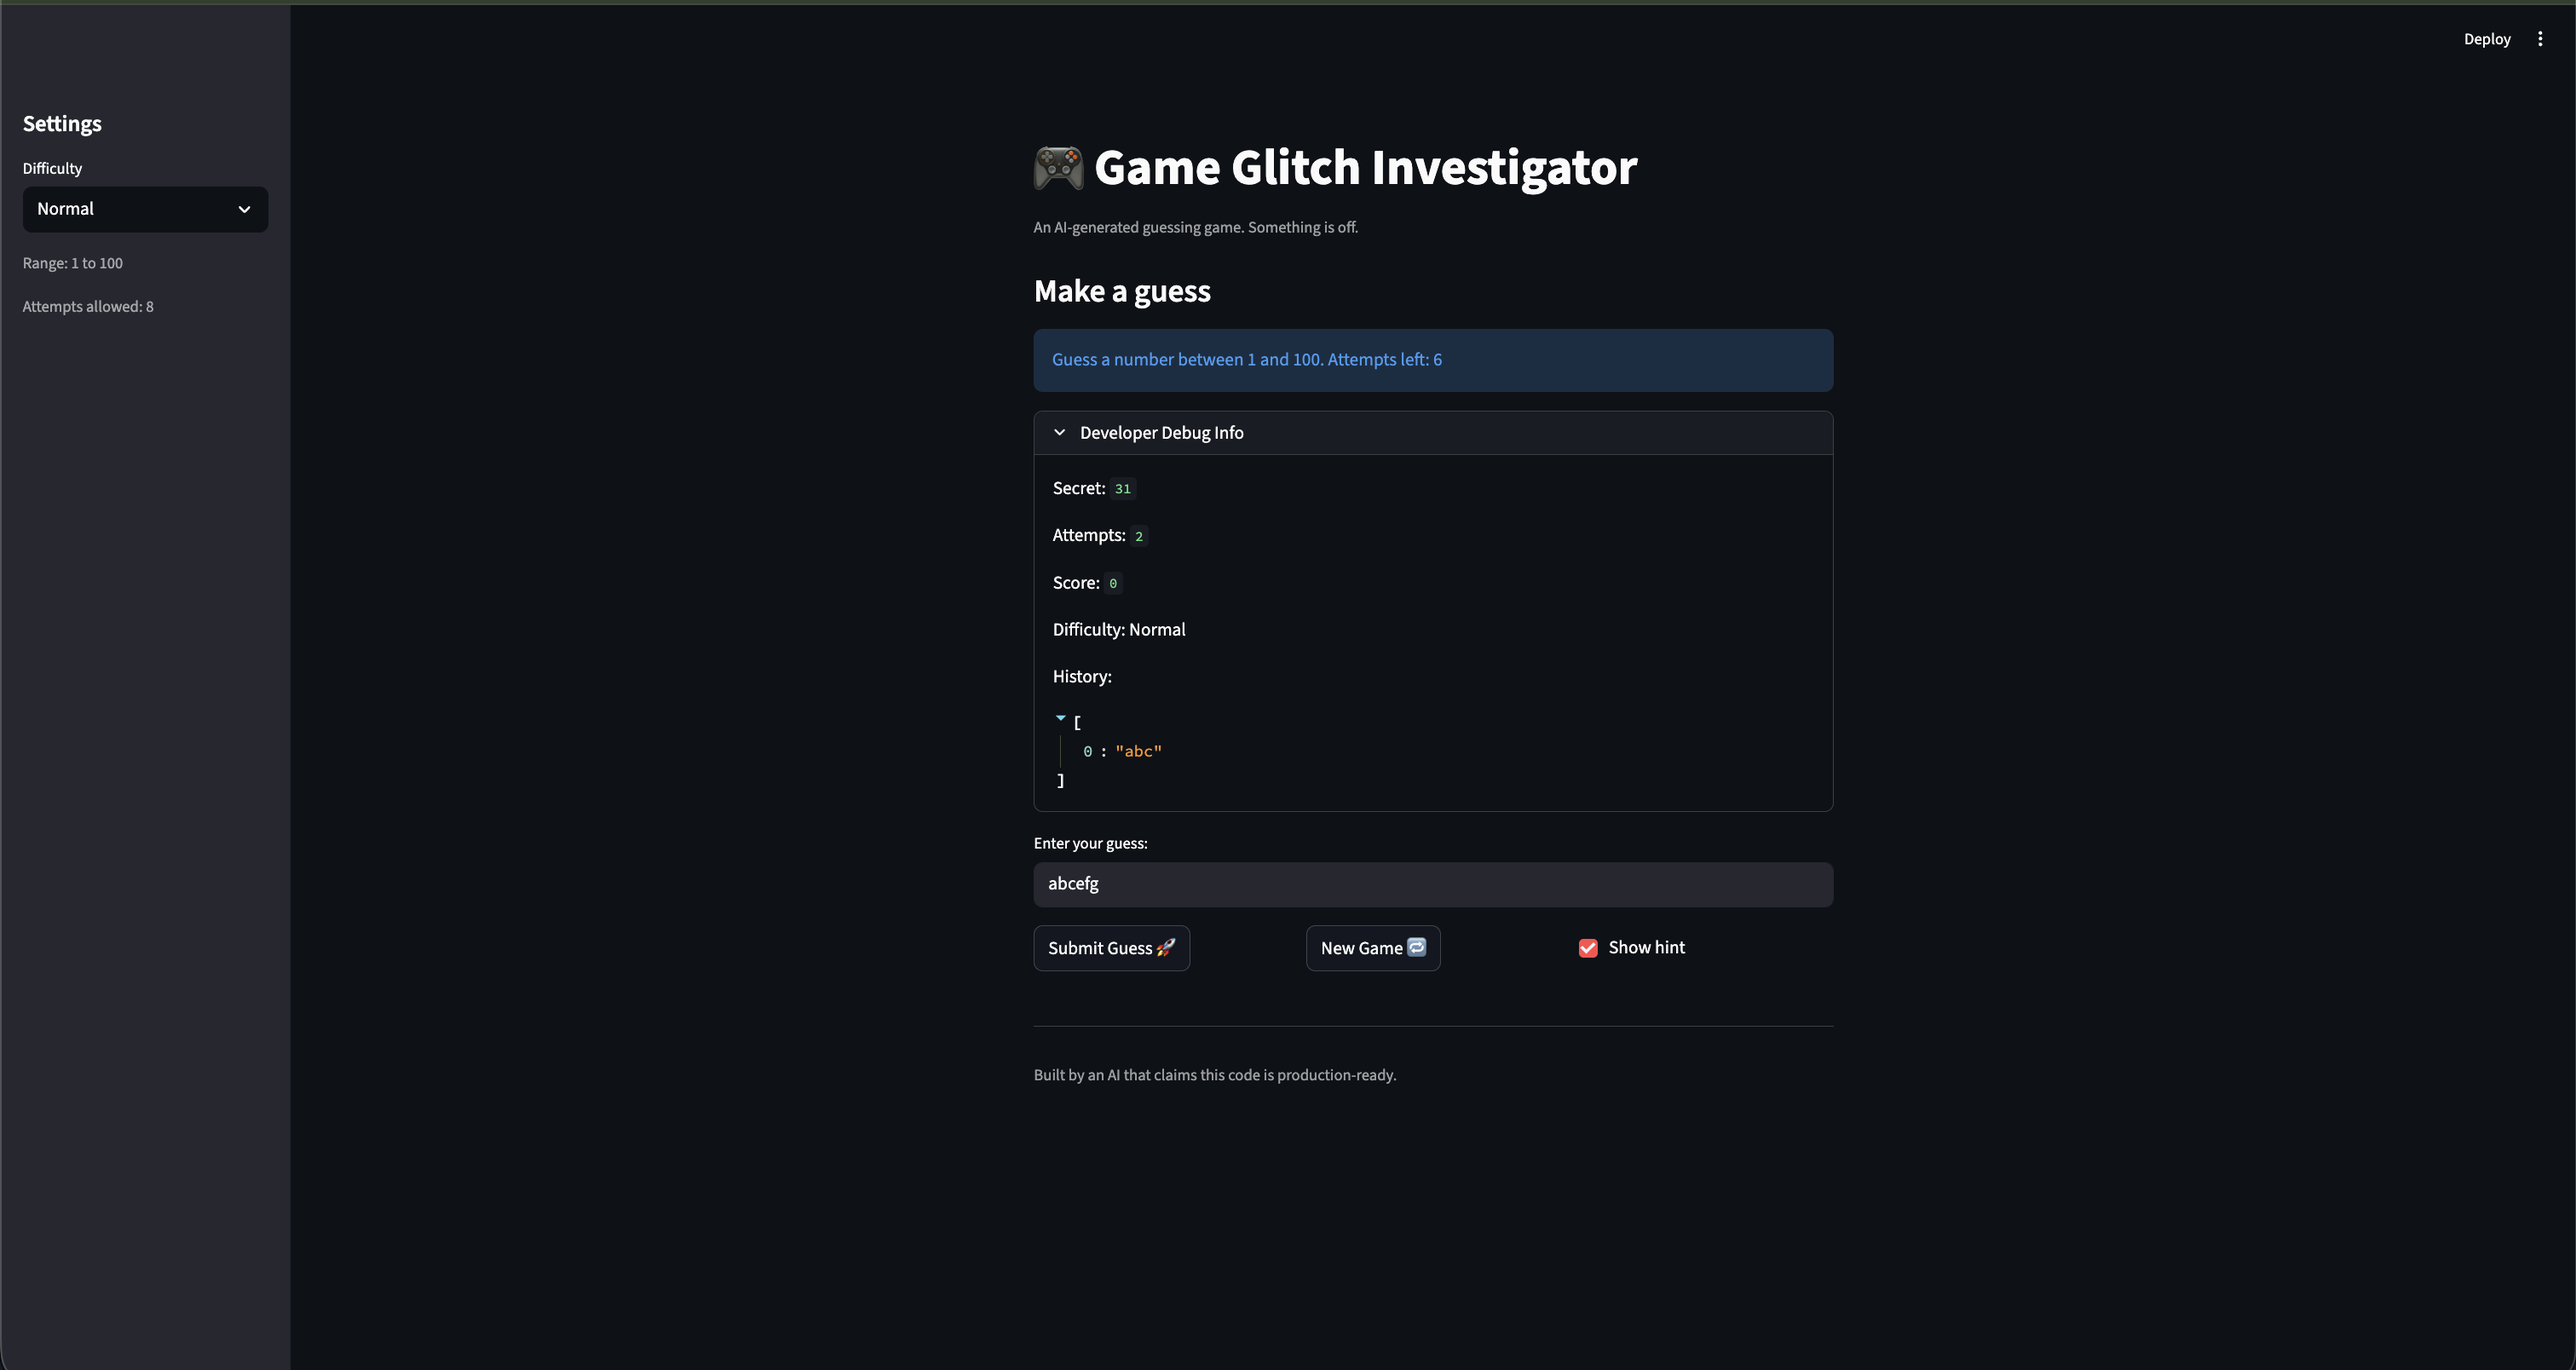
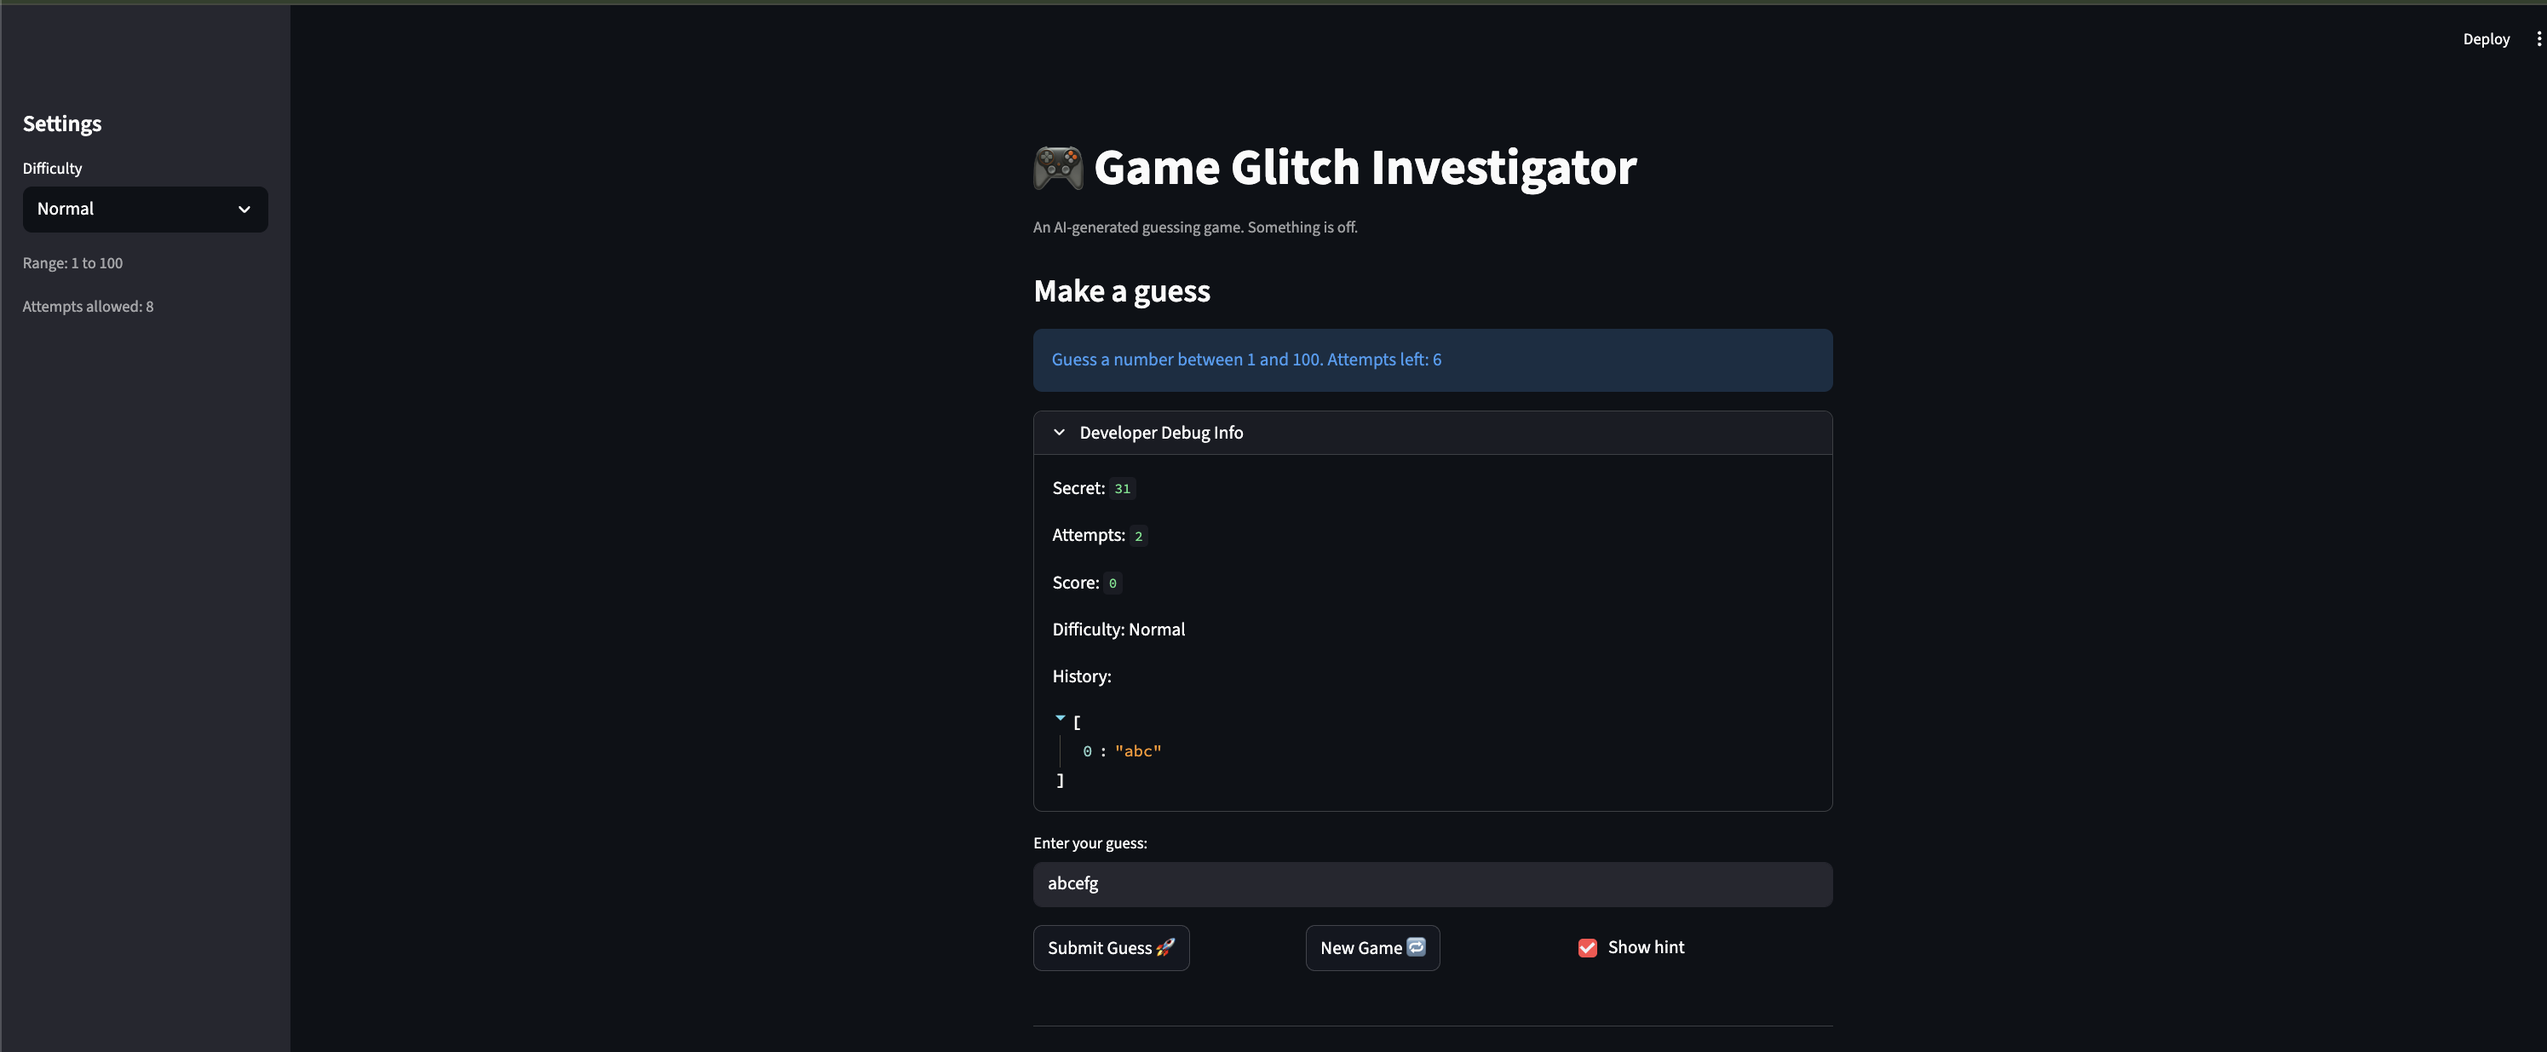
Add AI Coach feature

diff --git a/logic_utils.py b/logic_utils.py
@@ -60,3 +60,126 @@ def update_score(current_score: int, outcome: str, attempt_number: int):
         return current_score - 5
 
     return current_score
+
+
+def update_possible_range(low: int, high: int, guess: int, outcome: str):
+    if outcome == "Too Low":
+        return max(low, guess + 1), high
+    if outcome == "Too High":
+        return low, min(high, guess - 1)
+    return low, high
+
+
+def heuristic_suggestion(low: int, high: int, guess_history):
+    tried = {g for g in guess_history if isinstance(g, int)}
+    if low > high:
+        return None, "Range is inconsistent. Start a new game."
+
+    mid = (low + high) // 2
+    if mid not in tried:
+        return mid, f"Try {mid}. It's the middle of the remaining range ({low}–{high})."
+
+    for step in range(1, (high - low) + 1):
+        up = mid + step
+        down = mid - step
+        if up <= high and up not in tried:
+            return up, f"Try {up}. It moves away from repeats and stays in ({low}–{high})."
+        if down >= low and down not in tried:
+            return down, f"Try {down}. It moves away from repeats and stays in ({low}–{high})."
+
+    return None, "You've tried everything in the current range."
+
+
+def repetition_note(guess_history, last_outcome):
+    ints = [g for g in guess_history if isinstance(g, int)]
+    if len(ints) < 3:
+        return ""
+    recent = ints[-3:]
+    if len(set(recent)) == 1:
+        return "You’ve guessed the same number multiple times. Try something different."
+    if last_outcome == "Too Low" and max(recent) <= min(recent):
+        return ""
+    if last_outcome == "Too Low" and recent[-1] <= recent[-2] <= recent[-3]:
+        return "You keep guessing low after a 'go higher' hint. Increase your guess more."
+    if last_outcome == "Too High" and recent[-1] >= recent[-2] >= recent[-3]:
+        return "You keep guessing high after a 'go lower' hint. Decrease your guess more."
+    return ""
+
+
+def ai_coach_suggestion(query_context: dict):
+    api_key = query_context.get("api_key")
+    low = query_context.get("low")
+    high = query_context.get("high")
+    history = query_context.get("history") or []
+    last_outcome = query_context.get("last_outcome") or ""
+
+    note = repetition_note(history, last_outcome)
+    fallback_guess, fallback_text = heuristic_suggestion(low, high, history)
+    fallback = (fallback_guess, (note + " " + fallback_text).strip())
+
+    if not api_key:
+        return fallback_guess, fallback[1], 0.0, "fallback", "missing_api_key"
+
+    try:
+        import google.generativeai as genai
+    except Exception:
+        return fallback_guess, fallback[1], 0.0, "fallback", "missing_google_generativeai"
+
+    try:
+        genai.configure(api_key=api_key)
+        model = genai.GenerativeModel("gemini-2.5-flash")
+        prompt = f"""
+You are helping a player in a number guessing game.
+Return JSON only with keys: suggested_guess (int), advice (string), confidence (number 0-1).
+
+Game state:
+- allowed_range: {low} to {high}
+- attempts_used: {query_context.get("attempts_used")}
+- attempts_left: {query_context.get("attempts_left")}
+- last_outcome: {last_outcome}
+- guess_history: {history}
+
+Guidelines:
+- Suggested guess must be within allowed_range.
+- Avoid repeating a previous integer guess.
+- If the player keeps guessing too low after "Too Low", tell them to increase more (same for Too High).
+"""
+        resp = model.generate_content(prompt)
+        text = (resp.text or "").strip()
+    except Exception as exc:
+        return fallback_guess, fallback[1], 0.0, "fallback", f"gemini_error: {exc}"
+
+    import json
+    def _extract_json(s: str):
+        start = s.find("{")
+        end = s.rfind("}")
+        if start == -1 or end == -1 or end <= start:
+            return None
+        return s[start:end + 1]
+
+    try:
+        data = json.loads(text)
+    except Exception:
+        extracted = _extract_json(text)
+        if not extracted:
+            return fallback_guess, fallback[1], 0.0, "fallback", "invalid_json"
+        try:
+            data = json.loads(extracted)
+        except Exception:
+            return fallback_guess, fallback[1], 0.0, "fallback", "invalid_json"
+
+    suggested = data.get("suggested_guess")
+    advice = (data.get("advice") or "").strip()
+    confidence = data.get("confidence")
+    if not isinstance(suggested, int) or suggested < low or suggested > high:
+        return fallback_guess, fallback[1], 0.0, "fallback", "suggested_out_of_range"
+    if suggested in {g for g in history if isinstance(g, int)}:
+        return fallback_guess, fallback[1], 0.0, "fallback", "suggested_repeats_history"
+    if not isinstance(confidence, (int, float)):
+        confidence = 0.5
+    confidence = max(0.0, min(1.0, float(confidence)))
+
+    if note and note.lower() not in advice.lower():
+        advice = (note + " " + advice).strip()
+
+    return suggested, advice or fallback[1], confidence, "gemini", ""

diff --git a/app.py b/app.py
@@ -1,17 +1,22 @@
 import random
+import os
 import streamlit as st
+from dotenv import load_dotenv
 
 from logic_utils import (
+    ai_coach_suggestion,
     check_guess,
     get_range_for_difficulty,
     parse_guess,
+    update_possible_range,
     update_score,
 )
+
+load_dotenv(dotenv_path=os.path.join(os.path.dirname(__file__), ".env"))
 
 st.set_page_config(page_title="Glitchy Guesser", page_icon="🎮")
 
 st.title("🎮 Game Glitch Investigator")
-st.caption("An AI-generated guessing game. Something is off.")
 
 st.sidebar.header("Settings")
 
@@ -33,6 +38,20 @@ low, high = get_range_for_difficulty(difficulty)
 st.sidebar.caption(f"Range: {low} to {high}")
 st.sidebar.caption(f"Attempts allowed: {attempt_limit}")
 
+if (
+    "difficulty" not in st.session_state
+    or st.session_state.difficulty != difficulty
+):
+    st.session_state.difficulty = difficulty
+    st.session_state.secret = random.randint(low, high)
+    st.session_state.attempts = 0
+    st.session_state.score = 0
+    st.session_state.status = "playing"
+    st.session_state.history = []
+    st.session_state.possible_low = low
+    st.session_state.possible_high = high
+    st.session_state.last_outcome = ""
+
 if "secret" not in st.session_state:
     st.session_state.secret = random.randint(low, high)
 
@@ -48,6 +67,15 @@ if "status" not in st.session_state:
 if "history" not in st.session_state:
     st.session_state.history = []
 
+if "possible_low" not in st.session_state:
+    st.session_state.possible_low = low
+
+if "possible_high" not in st.session_state:
+    st.session_state.possible_high = high
+
+if "last_outcome" not in st.session_state:
+    st.session_state.last_outcome = ""
+
 st.subheader("Make a guess")
 
 st.info(
@@ -60,6 +88,8 @@ with st.expander("Developer Debug Info"):
     st.write("Attempts:", st.session_state.attempts)
     st.write("Score:", st.session_state.score)
     st.write("Difficulty:", difficulty)
+    st.write("Possible range:", (st.session_state.possible_low, st.session_state.possible_high))
+    st.write("Last outcome:", st.session_state.last_outcome)
     st.write("History:", st.session_state.history)
 
 raw_guess = st.text_input(
@@ -75,12 +105,38 @@ with col2:
 with col3:
     show_hint = st.checkbox("Show hint", value=True)
 
+with st.sidebar.expander("AI Coach", expanded=False):
+    api_key = os.getenv("GEMINI_API_KEY", "").strip()
+    st.caption("Optional: set GEMINI_API_KEY to enable Gemini.")
+    ai_enabled = st.checkbox("Enable AI Coach", value=bool(api_key))
+    ai_button = st.button("Get AI suggestion")
+    if ai_button:
+        attempts_left = attempt_limit - st.session_state.attempts
+        suggested, advice, confidence, source, reason = ai_coach_suggestion({
+            "api_key": api_key if ai_enabled else "",
+            "low": int(st.session_state.possible_low),
+            "high": int(st.session_state.possible_high),
+            "history": list(st.session_state.history),
+            "last_outcome": st.session_state.last_outcome,
+            "attempts_used": int(st.session_state.attempts),
+            "attempts_left": int(attempts_left),
+        })
+        st.write(f"Suggestion: {suggested}" if suggested is not None else "Suggestion: (none)")
+        if advice:
+            st.write(advice)
+        st.caption(f"source={source} confidence={confidence:.2f}")
+        if source == "fallback" and ai_enabled and api_key:
+            st.caption(f"fallback_reason={reason}")
+
 if new_game:
     st.session_state.attempts = 0
     st.session_state.secret = random.randint(low, high)
     st.session_state.score = 0
     st.session_state.status = "playing"
     st.session_state.history = []
+    st.session_state.possible_low = low
+    st.session_state.possible_high = high
+    st.session_state.last_outcome = ""
     st.success("New game started.")
     st.rerun()
 
@@ -102,6 +158,13 @@ if submit:
         st.session_state.history.append(guess_int)
 
         outcome = check_guess(guess_int, st.session_state.secret)
+        st.session_state.last_outcome = outcome
+        st.session_state.possible_low, st.session_state.possible_high = update_possible_range(
+            st.session_state.possible_low,
+            st.session_state.possible_high,
+            guess_int,
+            outcome,
+        )
         if outcome == "Win":
             message = "🎉 Correct!"
         elif outcome == "Too High":
@@ -135,4 +198,3 @@ if submit:
                 )
 
 st.divider()
-st.caption("Built by an AI that claims this code is production-ready.")

diff --git a/README.md b/README.md
@@ -12,6 +12,16 @@ pip install -r requirements.txt
 python -m streamlit run app.py
 ```
 
+## AI Enhancement: AI Coach (optional)
+
+The app includes an AI Coach that suggests the next guess and explains why, based on your remaining range, guess history, and recent higher/lower hints.
+
+It works without an API key (fallback suggestion), but to enable Gemini suggestions set:
+
+```bash
+export GEMINI_API_KEY="your_key_here"
+```
+
 ## Bugs found
 
 ### Bug 1: Invalid input consumes an attempt
